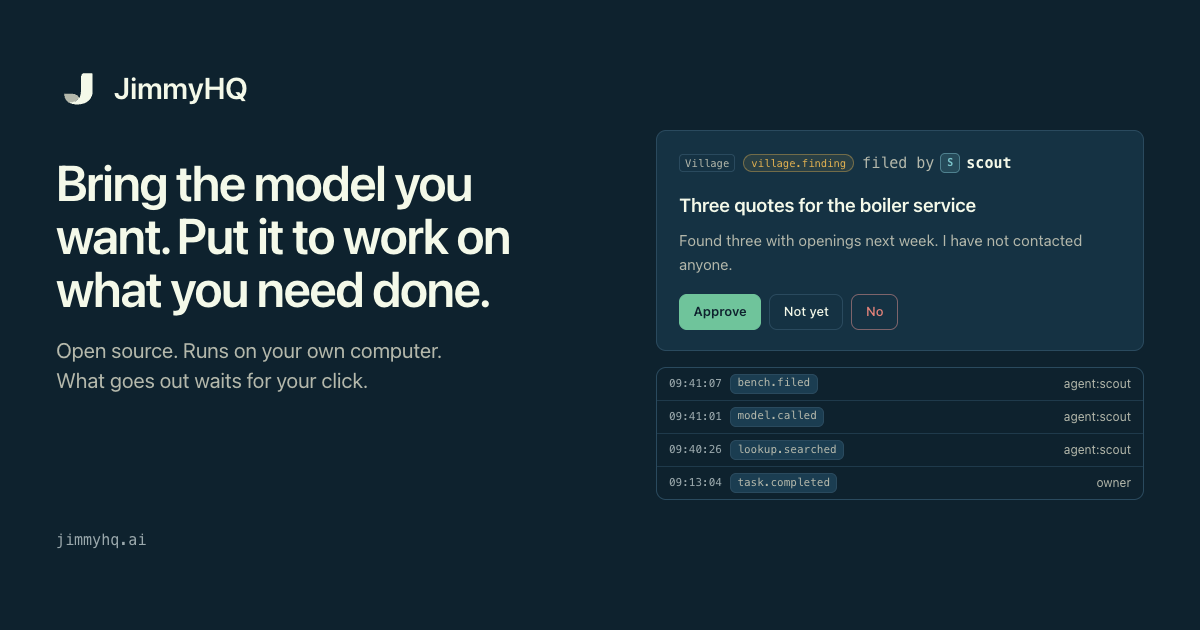
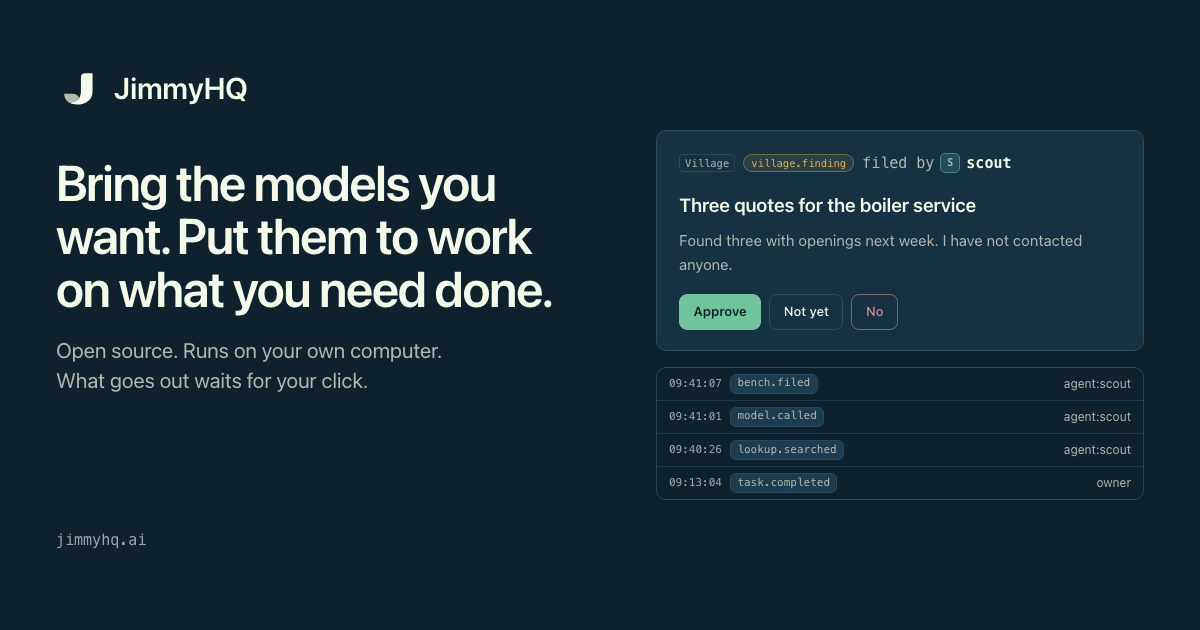
Website and README read-through: models, MCP both ways, the Wall, where it came from

Changed region(s): [[0.0308, 0.2714, 0.4625, 0.5127]]

diff --git a/site/src/pages/index.html b/site/src/pages/index.html
@@ -1,11 +1,11 @@
 <!--
-title: JimmyHQ: bring the model you want, put it to work on what you need done
+title: JimmyHQ: bring the models you want, put them to work on what you need done
 description: An open-source headquarters that runs on your own computer. Bring the models you want, give each role its model, and agents and apps put them to work. Every decision waits for your click and goes on one record.
 class: page home
 -->
 <section class="hero" aria-labelledby="hero-h">
-  <p class="label">Open source · runs on your computer · early</p>
-  <h1 id="hero-h"><span>Bring the model you want.</span> <span>Put it to work on what you need done.</span></h1>
+  <p class="label">Open source · runs on your own machines · early</p>
+  <h1 id="hero-h"><span>Bring the models you want.</span> <span>Put them to work on what you need done.</span></h1>
   <p class="lede">JimmyHQ runs on your own computer and opens in your browser. Bring a model on your machine, through {{providers:local}}, or a hosted one from {{providers:hosted}} with your own key. Give each role the model you choose, and JimmyHQ's agents and apps put them to work. When something is ready to go out, it waits on the Bench for your click.</p>
   <div class="actions">
     <a class="btn btn-primary" href="/get-started.html">Get started</a>
@@ -102,11 +102,13 @@ class: page home
 </section>
 
 <section class="sec" aria-labelledby="models-h">
+  <div class="sec-head models-head">
+    <p class="label">Bring your own models</p>
+    <h2 id="models-h">You choose the model for each job.</h2>
+    <p class="lede">JimmyHQ does not come with a model or an account of its own. You add the ones you want, and give each of the {{role_count}} roles a first choice and fallbacks. Every part of JimmyHQ asks for a role, and no model name is written into the code.</p>
+  </div>
   <div class="models">
     <div>
-      <p class="label">Bring your own models</p>
-      <h2 id="models-h">You choose the model for each job.</h2>
-      <p class="lede">JimmyHQ does not come with a model or an account of its own. You add the ones you want, and give each of the {{role_count}} roles a first choice and fallbacks. Every part of JimmyHQ asks for a role, and no model name is written into the code.</p>
       <div class="where">
         <div class="panel"><p class="label">On your machine</p><p>Any server that speaks the OpenAI-compatible API, such as {{providers:local}}. Or a second computer of yours, with a graphics card, that lends its models.</p></div>
         <div class="panel"><p class="label">Hosted, with your own key</p><p>{{providers:hosted}}. Your own model is used first, and the screen says when a hosted one answers.</p></div>
@@ -117,6 +119,20 @@ class: page home
       <p class="roles-note">The roles as the Models screen lists them. A role you leave empty uses the default role's models, except embeddings.</p>
     </div>
   </div>
+</section>
+
+<section class="sec" aria-labelledby="mcp-h">
+  <div class="sec-head">
+    <p class="label">MCP, both ways</p>
+    <h2 id="mcp-h">It works with the AI apps and tools you already use.</h2>
+    <p>JimmyHQ speaks the Model Context Protocol (MCP) in both directions. It is an MCP server other assistants can connect to, and its agents can use the MCP servers you add.</p>
+  </div>
+  <div class="grid-3">
+    <div class="panel idea"><p class="label">In: the MCP door</p><h3>Your other assistants can reach your headquarters.</h3><p>An assistant or agent platform that speaks MCP can talk to your agents, file a card on your Bench, add and list tasks, and search the shared part of memory. It can never decide a card or change a setting: there is no tool for it.</p></div>
+    <div class="panel idea"><p class="label">Out: MCP servers</p><h3>Your agents can use any MCP server.</h3><p>Add a server, a program on your machine or one at an address, and each tool it lists becomes an action your agents can ask for. A request waits on the Bench unless your rule for that one action lets it go.</p></div>
+    <div class="panel idea"><p class="label">On your terms</p><h3>Off until you switch it on.</h3><p>The door has a port of its own that answers nothing else. You name each client, it has its own token and a daily limit for each tool, and it can use no tool until you allow it. What it sends is data, never instructions, and every call goes on the Tape.</p></div>
+  </div>
+  <p class="small"><a class="more" href="{{code:docs/door.md}}" rel="noopener">The MCP door</a> &nbsp; <a class="more" href="{{code:docs/hands.md}}" rel="noopener">Integrations and MCP servers</a></p>
 </section>
 
 <section class="sec" aria-labelledby="ideas-h">

diff --git a/site/src/pages/security.html b/site/src/pages/security.html
@@ -5,14 +5,14 @@ class: page security
 -->
 <header class="page-head">
   <p class="label">Security and privacy</p>
-  <h1>What it protects, and what it does not.</h1>
+  <h1>How JimmyHQ protects you, and where that stops.</h1>
   <p class="lede">JimmyHQ is built for one person on their own computer. The rules below are enforced in code, with tests. The second list matters as much as the first: read it before you trust JimmyHQ with something.</p>
 </header>
 
 <section aria-labelledby="does-h">
   <div class="sec-head"><p class="label">What it does</p><h2 id="does-h">The model, in plain words.</h2></div>
   <ul class="claims">
-    <li><h3>It stays on your machine</h3><div><p>It listens on <code>127.0.0.1</code>, so only the computer it runs on can open it. Opening it to a network is your choice, and a request that Tailscale Funnel brings in from the public internet is refused unless you say otherwise in its config file.</p><p>A request relayed by a proxy or tunnel on the same computer is never treated as coming from the computer itself.</p></div></li>
+    <li><h3>Local until you open it</h3><div><p>As installed, it listens on <code>127.0.0.1</code>, so only the computer it runs on can open it. You can choose to open it to a network, such as your own private one for your phone. Even then, a request that Tailscale Funnel brings in from the public internet is refused unless you say otherwise in its config file.</p><p>A request relayed by a proxy or tunnel on the same computer is never treated as coming from the computer itself.</p></div></li>
     <li><h3>One owner</h3><div><p>Your password is stored as an scrypt hash, and a browser session is a cookie scripts cannot read, of which only a digest is kept. Five wrong passwords in fifteen minutes pause sign-in. Changing your password signs out every other browser.</p></div></li>
     <li><h3>Tokens are never the owner</h3><div><p>A token you make for another tool is a reader or a writer. No token can change settings, passwords or other tokens, and a revoked token stops working on its next request.</p></div></li>
     <li><h3>Your keys stay put</h3><div><p>Keys for outside services are kept in an owner-only file in your data folder. They are never written to the Tape or to logs, never shown again once saved, and never put in a settings file.</p></div></li>
@@ -20,7 +20,7 @@ class: page security
     <li><h3>Your model first</h3><div><p>No prompt goes to a hosted model unless you put one in a role or picked it by name, and when a fallback answers, the reply says so. A provider that needs a key and has none is never contacted.</p></div></li>
     <li><h3>Sandboxed apps</h3><div><p>A sandboxed app's page runs in a locked frame: no cookies, no reach into JimmyHQ's page, no network of its own. It can do only what you agreed to at install, and an update that asks for more waits for your yes.</p></div></li>
     <li><h3>Private things stay off the record</h3><div><p>Chat off the record, and what private apps hold, are kept in stores of their own with a real delete. Something that was on the record can be erased for good: its events keep their place and lose what they said, and the old bytes are overwritten in the file.</p></div></li>
-    <li><h3>The door is shut</h3><div><p>Other AI apps reach JimmyHQ over MCP only once you switch the door on. It has a port of its own that answers nothing else, each client has its own token, and a new client can use no tools until you switch them on one by one.</p></div></li>
+    <li><h3>The MCP door starts shut</h3><div><p>JimmyHQ can be an MCP server, so that other AI apps can talk to your agents, file a card or add a task. That door is off until you switch it on. It has a port of its own that answers nothing else, each client has its own token and daily limits, and a new client can use no tools until you switch them on one by one.</p><p>What a client sends is data, never instructions. Every call is recorded, and no client can decide a card, change a setting or read private memory.</p></div></li>
   </ul>
 </section>
 

diff --git a/site/social-card.html b/site/social-card.html
@@ -1,0 +1,39 @@
+<!doctype html><html><head><meta charset="utf-8"><link rel="stylesheet" href="http://127.0.0.1:8000/assets/site.css">
+<style>
+html,body{margin:0;width:1200px;height:630px;overflow:hidden}
+body{background:var(--bg);display:grid;grid-template-columns:560px 1fr;gap:40px;padding:64px 56px;box-sizing:border-box}
+.l{display:flex;flex-direction:column}
+.b{display:flex;align-items:center;gap:14px;font-size:30px;font-weight:600;letter-spacing:-.01em}
+.b svg{width:44px;height:44px}
+h1{font-size:50px;line-height:1.06;margin:44px 0 20px;letter-spacing:-.03em}
+.s{color:var(--text-muted);font-size:21px;line-height:1.45;max-width:30ch}
+.m{margin-top:auto;font-family:var(--font-mono);font-size:15px;color:var(--text-faint)}
+.r{display:flex;flex-direction:column;gap:16px;justify-content:center}
+.pane{border:1px solid var(--border);border-radius:10px;padding:20px 22px}
+.pane h3{font-size:19px}.pane p{font-size:15px}
+.tape{border:1px solid var(--border);border-radius:10px;border-left:1px solid var(--border)}
+</style></head>
+<body>
+<div class="l">
+ <div class="b"><svg viewBox="0 0 720 720"><path class="logo-lobe" d="M133 455H270C320 455 358 480 378 518C345 570 290 600 210 598C165 572 135 520 133 455Z"/><path class="logo-stem" d="M468 118H598V420C598 560 480 632 340 630C290 629 245 618 210 598C300 600 370 560 392 500C404 470 408 440 408 410V178C408 145 435 118 468 118Z"/></svg>JimmyHQ</div>
+ <h1>Bring the models you want. Put them to work on what you need done.</h1>
+ <p class="s">Open source. Runs on your own computer. What goes out waits for your click.</p>
+ <p class="m">jimmyhq.ai</p>
+</div>
+<div class="r">
+ <article class="pane">
+  <p class="pane-meta" style="margin-top:0"><span class="tag">Village</span><span class="pill warn">village.finding</span><span class="by">filed by <span class="tile" data-tone="0">S</span><b>scout</b></span></p>
+  <h3>Three quotes for the boiler service</h3>
+  <p style="margin:.6rem 0 1rem;color:var(--text-muted)">Found three with openings next week. I have not contacted anyone.</p>
+  <div class="actions"><span class="btn btn-approve">Approve</span><span class="btn">Not yet</span><span class="btn btn-no">No</span></div>
+ </article>
+ <aside class="tape">
+  <ol class="events">
+   <li class="ev"><time>09:41:07</time><span class="chip">bench.filed</span><span class="who">agent:scout</span></li>
+   <li class="ev"><time>09:41:01</time><span class="chip">model.called</span><span class="who">agent:scout</span></li>
+   <li class="ev"><time>09:40:26</time><span class="chip">lookup.searched</span><span class="who">agent:scout</span></li>
+   <li class="ev" style="border-bottom:0"><time>09:13:04</time><span class="chip">task.completed</span><span class="who">owner</span></li>
+  </ol>
+ </aside>
+</div>
+</body></html>

diff --git a/site/src/pages/tour.html b/site/src/pages/tour.html
@@ -102,6 +102,7 @@ class: page tour
     <p class="label">The Wall</p>
     <h2 id="wall-h">A board for a second screen.</h2>
     <p>Made to be left open on a small screen and read from across the room: the time, what needs you, today's tasks, which models are online, model use, and the newest events. It never scrolls.</p>
+    <p>Put it on a little panel on your desk, run by a spare or single-board computer, and it is the home base for everything JimmyHQ is doing. This picture is one arrangement: in Settings you choose the tiles and their order, the clock, and whether it stays dark, and the layout follows the shape of the screen.</p>
   </div>
   {{shot:wall}}
 </section>
@@ -126,7 +127,7 @@ class: page tour
     <div class="panel idea"><p class="label">Backups</p><p>To one or two folders you choose, on a schedule, each one checked as it is made and the newest tested in full every week. Restoring is done at the computer, from a terminal.</p></div>
     <div class="panel idea"><p class="label">Integrations</p><p>An agent may use an outside service, such as a mailbox or a tool server, one action at a time. A request waits on the Bench unless your rule for that action lets it go.</p></div>
     <div class="panel idea"><p class="label">Web and browser</p><p>A model can search the web and read pages, and an agent can drive a browser of its own, each only once you allow it.</p></div>
-    <div class="panel idea"><p class="label">Other AI apps</p><p>Outside assistants connect over MCP to a small, fixed set of tools, on a port of their own. Off until you switch it on.</p></div>
+    <div class="panel idea"><p class="label">MCP, both ways</p><p>JimmyHQ is an MCP server: outside assistants connect to a small, fixed set of tools, on a port of their own, off until you switch it on. Its agents can also use the MCP servers you add, one action at a time. <a href="/#mcp-h">More</a>.</p></div>
     <div class="panel idea"><p class="label">Second machine</p><p>Another computer of yours lends this one its models. Your data and decisions stay where they are.</p></div>
   </div>
 </section>
@@ -134,7 +135,7 @@ class: page tour
 <section class="sec" id="status" aria-labelledby="status-h">
   <div class="sec-head">
     <p class="label">Where it stands</p>
-    <h2 id="status-h">What is solid, and what is not yet.</h2>
+    <h2 id="status-h">What works today, and what is still unfinished.</h2>
     <p>From the README's project status, word for word.</p>
   </div>
   <div class="panel status-list">

diff --git a/site/src/pages/about.html b/site/src/pages/about.html
@@ -12,6 +12,10 @@ class: page about
 <div class="prose">
   <p>It is built in public, under the Apache-2.0 licence. The code, the guides and the plan are all in the <a href="{{repo}}" rel="noopener">repository</a>, and the <a href="/backlog.html">backlog</a> says what is done and what is not.</p>
   <p>It is early. Most areas work, and the guides are honest about what does not yet. Some connections to outside services have only been written from their documentation. If you try it, expect rough edges, and please say what you find.</p>
+  <h2>Where it came from</h2>
+  <p>Version 3 is new, and this is the first time the code is public. Most of what is in it is not new. JimmyHQ has been more than eight months in the making, and it has been rebuilt as it grew.</p>
+  <p>It began as experiments with OpenClaw. That grew into JimmyHQ version 1, and then version 2, each one built around a single person's own machines and habits. The Bench, the Tape, the Village and memory took their shape over those months of real use, and so did the rule that nothing goes out without a click.</p>
+  <p>Version 3 keeps what proved its worth and is written again from the start, so that other people can run the same things on their own systems. Nothing personal is in the code, anything that could differ between two people is a setting, and the apps are kept apart from the platform.</p>
 </div>
 
 <section class="sec rules" aria-labelledby="rules-h">

diff --git a/site/src/assets/site.css b/site/src/assets/site.css
@@ -349,6 +349,8 @@ pre .c { color: var(--text-faint); }
 
 .models { display: grid; grid-template-columns: minmax(0, 1fr) minmax(0, 1.05fr); gap: 2.5rem; align-items: start; }
 .models .lede { margin-bottom: 1rem; }
+.models-head .lede { max-width: none; }
+.models .where:first-child { margin-top: 0; }
 .models h2 { margin-bottom: 0.75rem; }
 .roles { margin: 0; padding: 0; list-style: none; max-width: none; overflow: hidden; border: 1px solid var(--border); border-radius: var(--radius); background: var(--surface); }
 .roles li { display: flex; align-items: baseline; gap: 1rem; margin: 0; padding: 0.6rem 0.9rem; border-bottom: 1px solid color-mix(in srgb, var(--border) 60%, transparent); }
@@ -459,6 +461,10 @@ pre .c { color: var(--text-faint); }
 .kinds h3 { display: flex; align-items: center; gap: 0.5rem; margin-bottom: 0.35rem; }
 .kinds + p { margin-top: 0.85rem; }
 .grid-2 h3 { margin-bottom: 0.35rem; }
+/* Good to know: title, sentence and command share rows, so the command boxes line up */
+.know > div { display: grid; grid-template-rows: subgrid; grid-row: span 3; row-gap: 0; align-content: start; }
+.know > div > * { min-width: 0; }
+.know > div > ul { grid-row: span 2; }
 .ledger + p { margin-top: 1.25rem; }
 .kinds p { margin: 0; color: var(--text-muted); font-size: 14px; }
 

diff --git a/site/src/pages/get-started.html b/site/src/pages/get-started.html
@@ -53,7 +53,7 @@ uv run jimmyhq backup restore &lt;backup folder&gt;</code></pre>
     <p class="label">Good to know</p>
     <h2 id="know-h">A few commands you may need.</h2>
   </div>
-  <div class="grid-2">
+  <div class="grid-2 know">
     <div>
       <h3>Where your data is</h3>
       <p class="muted">One folder, outside the code. This prints it. Set <code>JIMMYHQ_DATA</code> to use another.</p>

diff --git a/scripts/deploy_site_cpanel.py b/scripts/deploy_site_cpanel.py
@@ -228,6 +228,35 @@ def upload_site(panel: CPanel, dist: Path, folder: str, say=print) -> int:
     return count + 1
 
 
+def clear_dropped(panel: CPanel, home: str, dist: Path, folder: str, stamp: str,
+                  say=print) -> list[str]:
+    """Move aside what an earlier build left in ``folder`` and this build no longer has.
+    Only the site's own places are looked at: the pages at the top, and the folders the
+    build makes (such as assets and shots). Nothing is deleted; the files go to a folder
+    named site_dropped_… in the home folder."""
+    holding, dropped = f"site_dropped_{stamp}", []
+    by_folder = site_files(dist)
+    for sub, paths in by_folder.items():
+        here = f"{folder}/{sub}".rstrip("/")
+        # the files the build has here, and the folders it has inside this one
+        built = {p.name for p in paths} | {
+            other[len(sub):].strip("/").split("/")[0]
+            for other in by_folder if other != sub and (not sub or other.startswith(sub + "/"))}
+        stale = [n for n in panel.entries(here)
+                 if n not in built and (sub or n.endswith(".html"))]
+        if not stale:
+            continue
+        into = f"{holding}/{sub}".rstrip("/")
+        panel.upload(into, [("ABOUT.txt", f"Moved out of {here} by the site deploy: the "
+                                           "newer site no longer has these.\n".encode())])
+        for name in stale:
+            panel.move(f"{home}/{here}/{name}", f"{home}/{into}")
+            dropped.append(f"{here}/{name}")
+    if dropped:
+        say(f"  moved {len(dropped)} file(s) the site no longer has into {holding}")
+    return dropped
+
+
 STAYS = {".well-known", "cgi-bin"}
 
 
@@ -324,6 +353,7 @@ def main(argv: list[str] | None = None) -> int:
                 folder = found["documentroot"].removeprefix(found["homedir"]).strip("/")
                 print(f"It is served from the folder {folder!r}.")
                 count = upload_site(panel, args.dist, folder)
+                clear_dropped(panel, found["homedir"].rstrip("/"), args.dist, folder, stamp())
                 # A preview is for looking at, not for search engines to list.
                 panel.upload(folder, [("robots.txt", b"User-agent: *\nDisallow: /\n")])
                 print(f"Uploaded {count} files. Look at https://{name}/ (its certificate "
@@ -345,6 +375,8 @@ def main(argv: list[str] | None = None) -> int:
                 if not args.dir:
                     raise Stop("Say which folder with --dir.")
                 count = upload_site(panel, args.dist, args.dir)
+                home = panel.domain(args.host)["homedir"].rstrip("/")
+                clear_dropped(panel, home, args.dist, args.dir.strip("/"), stamp())
                 print(f"Uploaded {count} files into {args.dir!r}.")
         finally:
             panel.close()

diff --git a/tests/test_deploy_site_cpanel.py b/tests/test_deploy_site_cpanel.py
@@ -119,6 +119,29 @@ def test_every_file_goes_to_its_own_folder_with_the_htaccess_beside_the_pages(pa
     assert "RewriteEngine Off" in tool.HTACCESS  # a parent folder's rules stay out
 
 
+def test_files_a_newer_build_dropped_are_moved_aside_and_nothing_else_is_touched(panel, fake,
+                                                                                    dist):
+    (dist / "assets" / "fonts").mkdir()
+    (dist / "assets" / "fonts" / "a.woff2").write_text("x", encoding="utf-8")
+    tool.upload_site(panel, dist, "public_html", say=lambda _: None)
+    mine = dict(fake.files)
+    others = {"public_html/old-page.html": b"o", "public_html/shots/gone.png": b"o",
+              "public_html/notes.txt": b"keep", "public_html/site_new/x.html": b"keep",
+              "public_html/.well-known/t": b"keep"}
+    fake.files.update(others)
+    dropped = tool.clear_dropped(panel, "/srv/acct", dist, "public_html", "7",
+                                 say=lambda _: None)
+    assert dropped == ["public_html/old-page.html", "public_html/shots/gone.png"]
+    assert fake.files["site_dropped_7/old-page.html"] == b"o"
+    assert fake.files["site_dropped_7/shots/gone.png"] == b"o"
+    for name, data in {**mine, **{k: v for k, v in others.items() if v == b"keep"}}.items():
+        assert fake.files[name] == data
+    assert not any(r.url.path.endswith(("delete_file", "trash_file")) for r in fake.seen)
+    assert tool.clear_dropped(panel, "/srv/acct", dist, "public_html", "8",
+                              say=lambda _: None) == []
+    assert not any(name.startswith("site_dropped_8") for name in fake.files)
+
+
 def test_many_or_large_files_are_sent_in_several_requests(tmp_path, monkeypatch):
     paths = []
     for n in range(20):

diff --git a/README.md b/README.md
@@ -5,15 +5,16 @@
 <h1 align="center">JimmyHQ</h1>
 
 <p align="center">
-  Bring the model you want. Put it to work on what you need done.
-  Open source, on your own computer.
+  Bring the models you want. Put them to work on what you need done.
+  Open source, on your own machines.
 </p>
 
 <p align="center">
   Version <!-- version:start -->0.1.0<!-- version:end --> · early development · Apache-2.0
 </p>
 
-JimmyHQ is a local-first platform that runs on your own computer and opens in your browser. It
+JimmyHQ is a local-first platform that runs on your own machines and opens in your browser. One
+computer is enough; a second one, such as a box with a graphics card, can lend it its models. It
 gives one person a single place for their tasks, their notes and memory, their AI models and
 the agents that work for them, and it brings every decision back to you to approve.
 
@@ -191,8 +192,16 @@ More: [Speech](docs/speech.md).
 ### The Wall
 
 A status board for a second screen, at `/wall`: clock, usage, the Bench, today's tasks, model
-health and the live Tape. It needs no pointer, never scrolls and fills the screen. It has
-settings for the tiles, a 24-hour clock and burn-in protection, and a kiosk recipe.
+health and the live Tape. It needs no pointer, never scrolls and fills the screen.
+
+It is made for a small screen left on all day: a little panel on a desk or a shelf, run by a
+spare computer or a single-board one, as the home base that shows what JimmyHQ is doing. The
+guide has a kiosk recipe for that.
+
+The picture below is one arrangement, not the only one. In Settings you choose which tiles
+it shows and in what order, how many lines each list gets, a 12 or 24-hour clock, whether it
+stays dark, and burn-in protection. The layout and the size of the type follow the shape of
+the screen.
 
 <p align="center">
   <img src="docs/screenshots/wall.png" alt="The Wall: a clock, usage, the Bench count, today's tasks, models and the live Tape" width="900">

diff --git a/ROADMAP.md b/ROADMAP.md
@@ -25,6 +25,9 @@ What is being worked on, in order. The dev log (`CHANGELOG.md`) says what has sh
   takes a quick note or task in plain words.
 - **Install a set.** Several apps that ship with JimmyHQ installed together, with one
   confirmation.
+- **An app store, and a way to submit to it.** What a listing shows, how someone sends in
+  an app they made, and how a full app is reviewed before it is listed. The design comes
+  first, so that people can start submitting soon after.
 - **Chat with agents.** The same Chat screen for your models and your agents.
 - **Voice.** Spoken commands and spoken replies.
 
@@ -35,7 +38,6 @@ What is being worked on, in order. The dev log (`CHANGELOG.md`) says what has sh
 - **A day thread.** One timeline of today across every app, with decisions inline.
 - **A weekly review** the system writes: what came in, what it did alone, what is stuck.
 - **Agents that own a project** end to end, with a budget of approvals they may spend.
-- **An app store**, with a review of full apps before they are listed.
 - **A no-code app builder**: describe an app in chat and get one that keeps and shows
   records.
 - **A development workspace** for building apps from inside JimmyHQ.

diff --git a/docs/releasing.md b/docs/releasing.md
@@ -102,6 +102,10 @@ uv run python site/build.py --strict
 
 The pages are written to `site/dist/`. Putting them on the web is step 10.
 
+If you publish from a snapshot that leaves some files out (see `.publicignore`), the site
+that goes on the web must be built again inside that public copy, after step 9. A site built
+here would list apps and pictures the public repository does not have.
+
 ## 8. Build and commit
 
 ```bash
@@ -160,6 +164,10 @@ notes from the dev log entry.
 uv run python scripts/deploy_site_cpanel.py preview --host example.org --subdomain new
 uv run python scripts/deploy_site_cpanel.py upload --host example.org --dir public_html
 ```
+
+Add `--dist <public copy>/site/dist` to send the site built in the public copy. After an
+upload, files an earlier build left behind and this one no longer has are moved into a
+`site_dropped_…` folder in the account's home folder. Nothing is deleted.
 
 Then tell people. A release worth announcing gets a short post written from its dev log
 entry: what is new, in plain words, with a link to the code and to the website.
